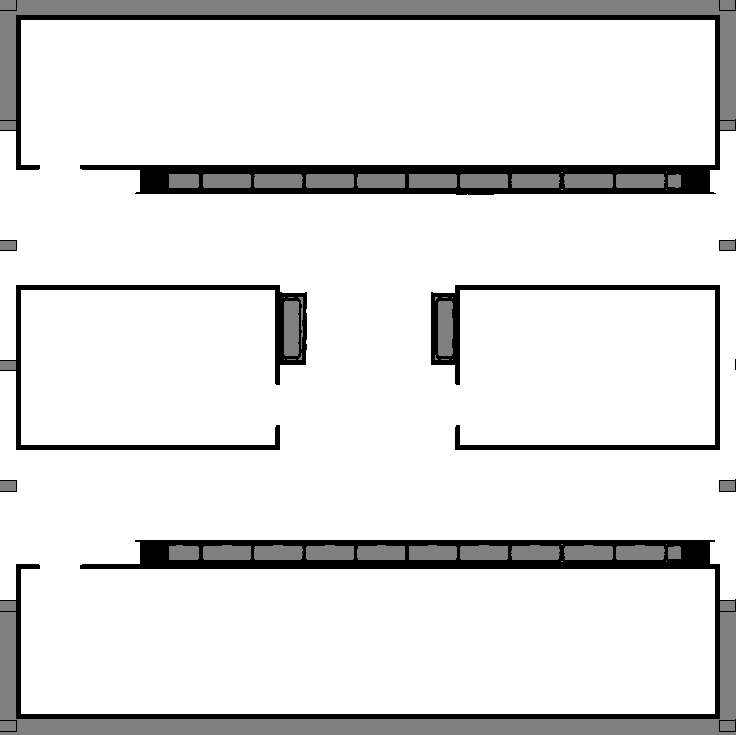
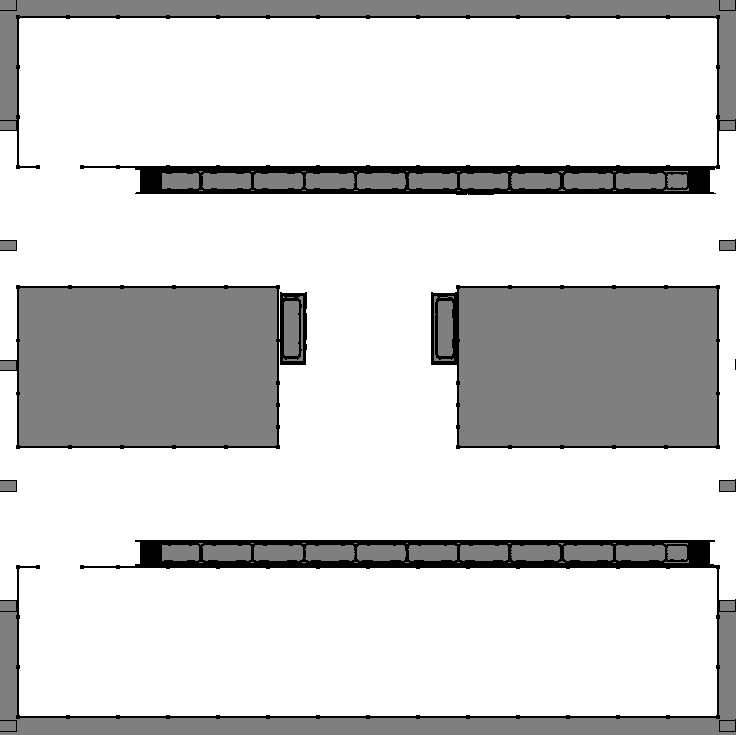
주행/시나리오 튜닝: 정적 코스트맵 레이어·검출 필터·시작 안정화
- nav2(slam): global costmap 에 static_layer 추가 (사전맵 펜스/투명벽 + 라이다 동적장애물)
- scenario: 검출 임계 0.40→0.55, bbox 최소높이 필터로 원거리/오검출 제거
- scenario: 시작 대기 중 드리프트 0.4m 초과 시에만 1회 재중심(매스텝 텔레포트 금지)
- barn_map_server: W/H 를 grid shape 에서 직접 산출
- environment_0609 맵 갱신

diff --git a/src/smart_farm_spot/isaac/scenario.py b/src/smart_farm_spot/isaac/scenario.py
@@ -59,8 +59,9 @@ BACKUP_DUR = int(os.environ.get("SF_BACKUP_DUR", "70"))         # 후진 탈출 
 # ── in-Isaac 비전 꼬리 검출(SF_VISION_TAIL=1): YOLO·꼬리3D를 프로세스 내부에서 처리,
 #    밖으론 목표(/tmp/scenario_goal.json)만 내보냄 → scenario_nav.py 가 Nav2 로 relay ──
 VISION_TAIL = os.environ.get("SF_VISION_TAIL", "0") == "1"
-DET_CONF = float(os.environ.get("SF_DET_CONF", "0.40"))
+DET_CONF = float(os.environ.get("SF_DET_CONF", "0.55"))        # 오검출↓ 위해 상향
 KPT_CONF = float(os.environ.get("SF_KPT_CONF", "0.30"))
+MIN_BBOX_FRAC = float(os.environ.get("SF_MIN_BBOX_FRAC", "0.28"))  # 소 bbox 높이/이미지 최소(가까울 때만 신뢰)
 TAIL_KPT = 5                                                    # 0 nose..5 tail_base
 N_STABLE = int(os.environ.get("SF_N_STABLE", "5"))             # 안정 추정 측정 수
 RESEND_DIST = float(os.environ.get("SF_RESEND_DIST", "0.6"))   # 목표 갱신 임계(m)
@@ -68,8 +69,6 @@ VIS_EVERY = int(os.environ.get("SF_VIS_EVERY", "15"))          # N스텝마다 Y
 SAVE_DET = os.environ.get("SF_SAVE_DET", "0") == "1"           # 640 검출 출력 저장
 SAVE_DET_PATH = os.environ.get("SF_SAVE_DET_PATH",
                                os.path.expanduser("~/spot_det_640.jpg"))
-SEARCH_VX = float(os.environ.get("SF_SEARCH_VX", "0.0"))       # 소 탐색 전진(0=제자리)
-SEARCH_WZ = float(os.environ.get("SF_SEARCH_WZ", "0.4"))       # 소 탐색 회전속도(제자리 스캔)
 # ── cmd_vel 추종 PID(하부 속도 폐루프): Nav2 목표속도를 실측 base 속도로 추종 ──
 CMD_PID = os.environ.get("SF_CMD_PID", "1") == "1"
 PID_KP = float(os.environ.get("SF_PID_KP", "0.6"))            # 선속도 P
@@ -80,6 +79,7 @@ PID_KI_W = float(os.environ.get("SF_PID_KI_W", "0.2"))       # 각속도 I
 PID_I_CLAMP = float(os.environ.get("SF_PID_I_CLAMP", "0.5")) # 적분 windup 한계
 PID_VX_LIM = float(os.environ.get("SF_PID_VX_LIM", "1.2"))   # 보정후 vx 한계
 PID_WZ_LIM = float(os.environ.get("SF_PID_WZ_LIM", "1.5"))   # 보정후 wz 한계
+STABLE_WAIT = os.environ.get("SF_STABLE_WAIT", "1") == "1"   # 시작 대기 중 베이스 고정(안정 기립)
 
 parser = argparse.ArgumentParser()
 parser.add_argument("--task", default=TASK)
@@ -547,6 +547,10 @@ def detect_tail_world(model, rgb_annot, depth_annot, cam_K, cwp, cwq, device):
         return None
     kps = r.keypoints.data.cpu().numpy()           # (n,14,3)
     bi = int(np.argmax(r.boxes.conf.cpu().numpy()))   # 가장 신뢰 높은 소
+    # 오검출/원거리 거름: 소 bbox 가 충분히 커야(=가까워야) 신뢰(근거리 검출은 6cm로 정확).
+    _box = r.boxes.xyxy.cpu().numpy()[bi]
+    if float(_box[3] - _box[1]) < MIN_BBOX_FRAC * rgb.shape[0]:
+        return None
     tail = kps[bi, TAIL_KPT]                        # [x, y, conf]
     if float(tail[2]) < KPT_CONF:
         return None
@@ -1033,6 +1037,21 @@ def main():
             #  else: _act = _pa
             _act = _pa   # 대기(정지) 중 완전 정지 위해 다리 바이어스 제거(바이어스가 드리프트 유발)
             obs, _, _, _, _ = env.step(_act)
+
+        # ── 시작 대기 중 안정 자세 — 드리프트가 임계 초과할 때만 살짝 재중심(매스텝 텔레포트 금지:
+        #  매스텝 write_root_pose 는 물리 솔버와 충돌해 불안정/크래시. 임계 초과시 1회 보정만).
+        if STABLE_WAIT and state != "RECOVERY" and not nav_active:
+            if math.hypot(rx - SX, ry - SY) > 0.4:     # 시작점에서 0.4m 이상 밀렸을 때만
+                with torch.inference_mode():           # 필수: sim write 는 inference_mode 안에서
+                    _rsw = robot.data.root_state_w.clone()
+                    _rsw[:, 0], _rsw[:, 1] = SX, SY
+                    _yw = float(euler_xyz_from_quat(robot.data.root_quat_w[0].unsqueeze(0))[2][0])
+                    _rsw[:, 3] = math.cos(_yw / 2.0)
+                    _rsw[:, 4] = 0.0
+                    _rsw[:, 5] = 0.0
+                    _rsw[:, 6] = math.sin(_yw / 2.0)
+                    robot.write_root_pose_to_sim(_rsw[:, :7])
+                    robot.write_root_velocity_to_sim(torch.zeros_like(_rsw[:, 7:13]))
 
         # odom/tf (시작점 상대 평면)
         rs = robot.data.root_state_w[0]

diff --git a/src/smart_farm_spot/scenario_nav.py b/src/smart_farm_spot/scenario_nav.py
@@ -64,6 +64,9 @@ class PatrolSeek(Node):
                 self.wps = json.load(f)["waypoints"]
         except Exception:
             self.wps = []
+        # 시작점(map 원점) 근처 웨이포인트 제거 — 경로길이0이면 DWB가 제자리 정체(메모리 함정).
+        _skip = float(os.environ.get("SF_WP_SKIP_R", "1.5"))
+        self.wps = [w for w in self.wps if math.hypot(w[0], w[1]) > _skip]
 
         self.client = ActionClient(self, NavigateToPose, "navigate_to_pose")
         if not self.client.wait_for_server(timeout_sec=40.0):

diff --git a/src/smart_farm_spot/barn_map_server.py b/src/smart_farm_spot/barn_map_server.py
@@ -44,9 +44,8 @@ class BarnMapServer(Node):
         with open(MAP_JSON) as f:
             meta = json.load(f)
         self.res = float(meta["resolution"])
-        self.W = int(meta["width"]); self.H = int(meta["height"])
         self.ox, self.oy = meta["origin"]
-
+        self.H, self.W = int(grid.shape[0]), int(grid.shape[1])
         # latched(map 은 한 번만 받아도 유지) QoS
         qos = QoSProfile(depth=1)
         qos.durability = QoSDurabilityPolicy.TRANSIENT_LOCAL
